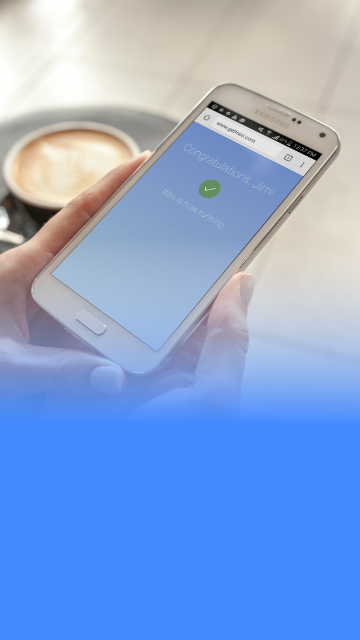
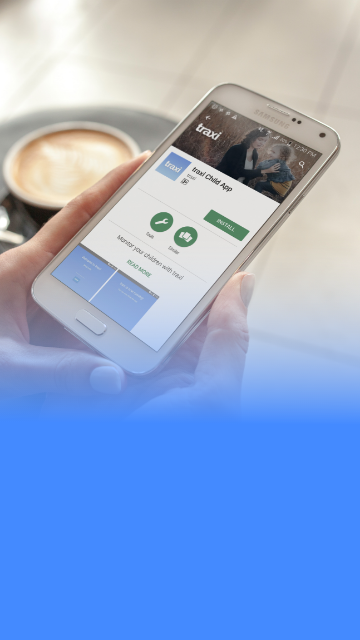
Add extra step to Intro.

Changed region(s): [[0.1528, 0.1562, 0.8861, 0.5625]]

diff --git a/App/Components/Intro.js b/App/Components/Intro.js
@@ -74,10 +74,12 @@ const STEP_IMAGES = [
   require('../Images/intro-step-2.png'),
   require('../Images/intro-step-3.png'),
   require('../Images/intro-step-4.png'),
+  require('../Images/intro-step-5.png'),
 ];
 
 const HEADER_TEXT = [
   'First, get your kid\'s device',
+  'Go to www.gettraxi.com',
   'Then enter a PIN',
   'Follow the instructions',
   'Then you\'re all done!',
@@ -85,6 +87,7 @@ const HEADER_TEXT = [
 
 const SUBHEADER_TEXT = [
   'Don\'t worry, you can do this later if you like.',
+  'Use the web browser on your kid’s device',
   'We\'ll tell you what it is soon',
   'It only takes a couple of seconds',
   'Doesn\'t that look easy?',
@@ -108,6 +111,7 @@ export default class extends React.Component {
       new Animated.Value(0),
       new Animated.Value(0),
       new Animated.Value(0),
+      new Animated.Value(0),
     ];
 
     this.styles = [
@@ -115,6 +119,7 @@ export default class extends React.Component {
       { opacity: this.animations[1] },
       { opacity: this.animations[2] },
       { opacity: this.animations[3] },
+      { opacity: this.animations[4] },
     ];
   }
 
@@ -175,6 +180,11 @@ export default class extends React.Component {
           style={[imageStyle, this.styles[3]]}
           source={STEP_IMAGES[3]}
         />
+        <Animated.Image
+          resizeMode="cover"
+          style={[imageStyle, this.styles[4]]}
+          source={STEP_IMAGES[4]}
+        />
 
         <View style={paddingStyle}>
           {this.state.step > 0 ? <TouchableOpacity onPress={() => this.previousStep()}>
@@ -182,7 +192,7 @@ export default class extends React.Component {
               source={require('../Images/left-arrow.png')}
             />
           </TouchableOpacity> : <View />}
-          {this.state.step < 3 ? <Animatable.View
+          {this.state.step < 4 ? <Animatable.View
             useNativeDriver
             animation="bounce"
             duration={2000}
@@ -217,7 +227,7 @@ export default class extends React.Component {
 
           <Spacing height={16} />
 
-          {this.state.step === 3 && <Animatable.View
+          {this.state.step === 4 && <Animatable.View
             useNativeDriver
             delay={1000}
             duration={1000}

diff --git a/App/Components/ProgressTrack.js b/App/Components/ProgressTrack.js
@@ -4,7 +4,7 @@ import { WHITE, TRAXI_BLUE } from '../Constants/Colours';
 
 const TRACK_COLOUR = WHITE;
 const TRACK_THICKNESS = 4;
-const STAGES = [0, 1, 2, 3];
+const STAGES = [0, 1, 2, 3, 4];
 
 const containerStyle = {
   height: 32,
